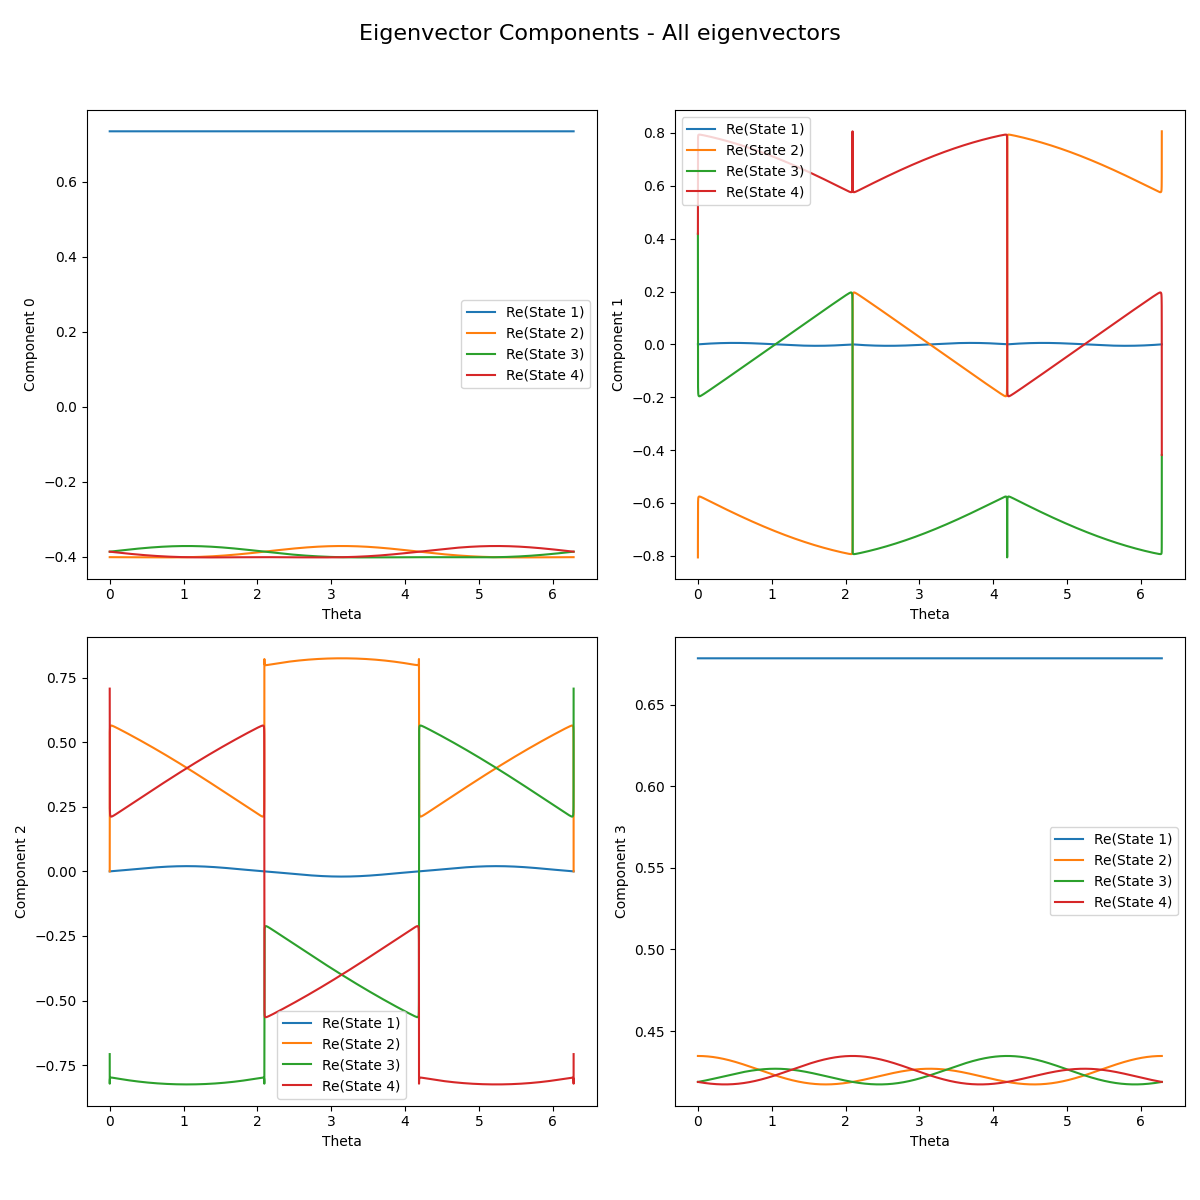
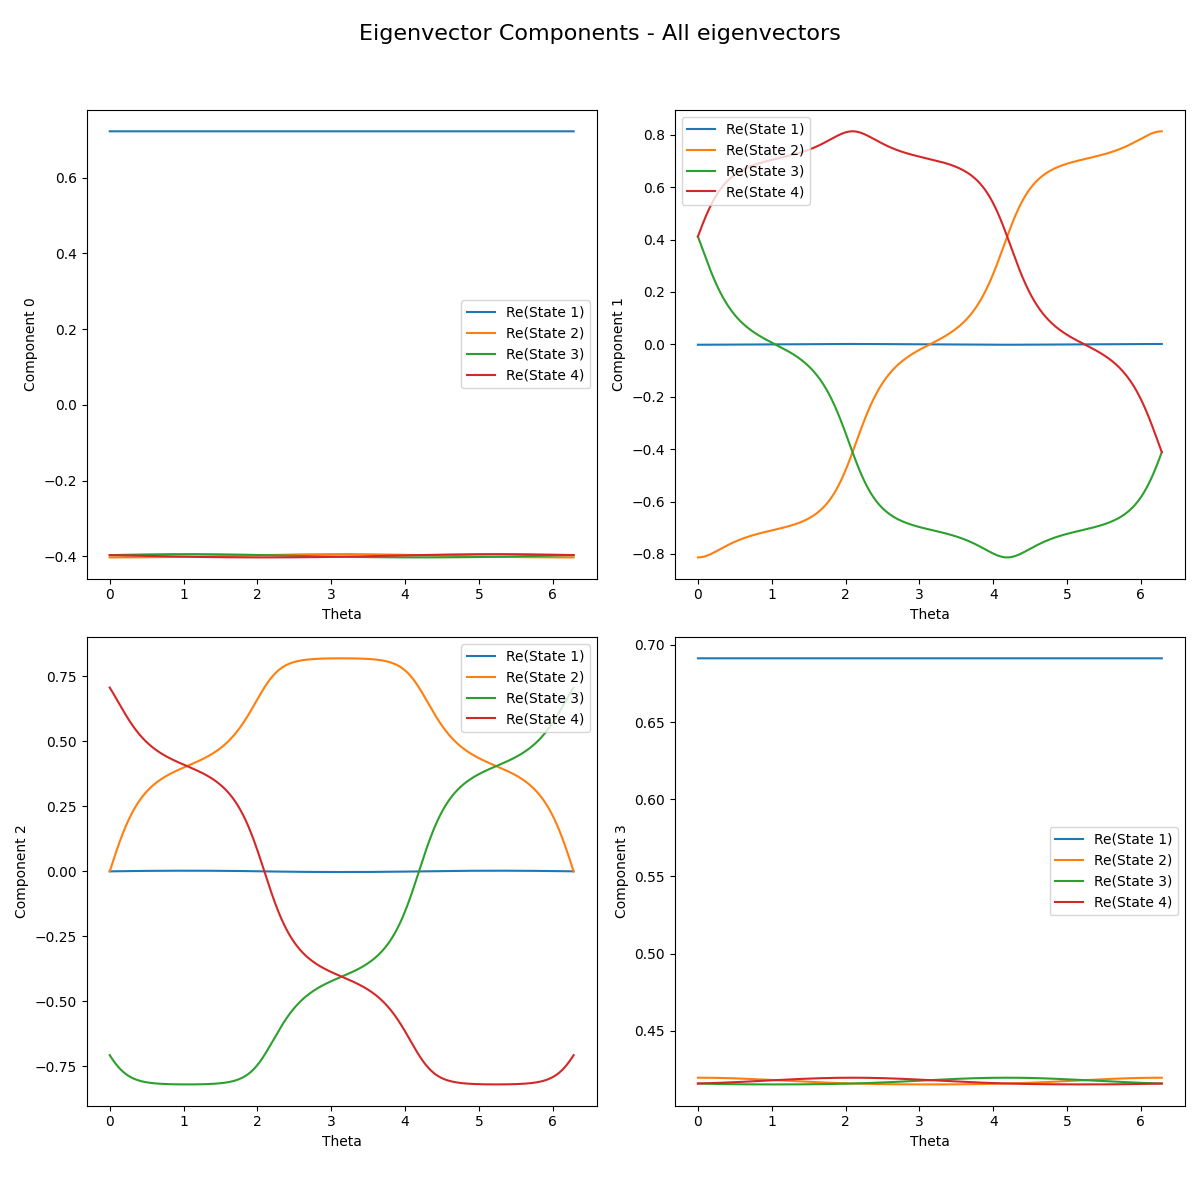
COMMITITING B4 SLEEP

diff --git a/better_or_not_better_bph.py b/better_or_not_better_bph.py
@@ -508,13 +508,23 @@ def compute_berry_phase(eigvectors_all, theta_vals, continuity_check=False):
                 psi_next = eigvectors_all[i_next, :, n]
                 psi_curr = eigvectors_all[i, :, m]
 
-                grad_psi = (psi_next - psi_prev) / (2 * delta_theta)
+                grad_psi = (psi_next - psi_prev) / (delta_theta)
                 tau_val = 1j * np.vdot(psi_curr, grad_psi)
+                """ BAD, VERY BAD
+                if theta_vals[i] == theta_max:
+                    tau_val *= 2
+                elif theta_vals[i] == theta_min:
+                    tau_val *= 2
+                else:
+                    tau_val *= 1
+                """
                 tau[n, m, i] = tau_val
 
                 # Accumulate γ (imaginary part of τ)
                 if i > 0:
-                    gamma[n, m, i] = gamma[n, m, i - 1] + np.imag(tau_val) * delta_theta
+                    # Use trapezoidal rule for more accurate integration
+                    if i > 0:
+                        gamma[n, m, i] = gamma[n, m, i - 1] + 0.5 * np.imag(tau_val + tau[n, m, i - 1]) * delta_theta
 
     # Remove padded τ/γ at final point to keep shape = original
     tau = tau[:, :, :N_orig]
@@ -677,7 +687,6 @@ def main(d, aVx, aVa, c_const, x_shift, theta_min, theta_max, omega, num_points,
     plt.ylabel('Tr(γ)')
     plt.grid(True)
     plt.tight_layout()
-    plt.legend()
     plt.savefig(f'{plot_dir}/Tr_gamma_vs_theta.png')
     plt.close()
 
@@ -719,15 +728,15 @@ if __name__ == '__main__':
     
     elif dataset == 2:
         #let a be an aVx and an aVa parameter
-        d = 0.061200  # Radius of the circle, use unit circle for bigger radius, még egy CI???
+        d = 0.02  # Radius of the circle, use unit circle for bigger radius, még egy CI???
         aVx = 1.0
-        aVa = 5.0
+        aVa = 3.0
         c_const = 0.01  # Potential constant, shifts the 2d parabola on the y axis
         x_shift = 0.01  # Shift in x direction
         theta_min = 0
         theta_max = 2 * np.pi
         omega = 0.1
-        num_points = 500000
+        num_points = 5000
         R_0 = (0, 0, 0)
 
     
